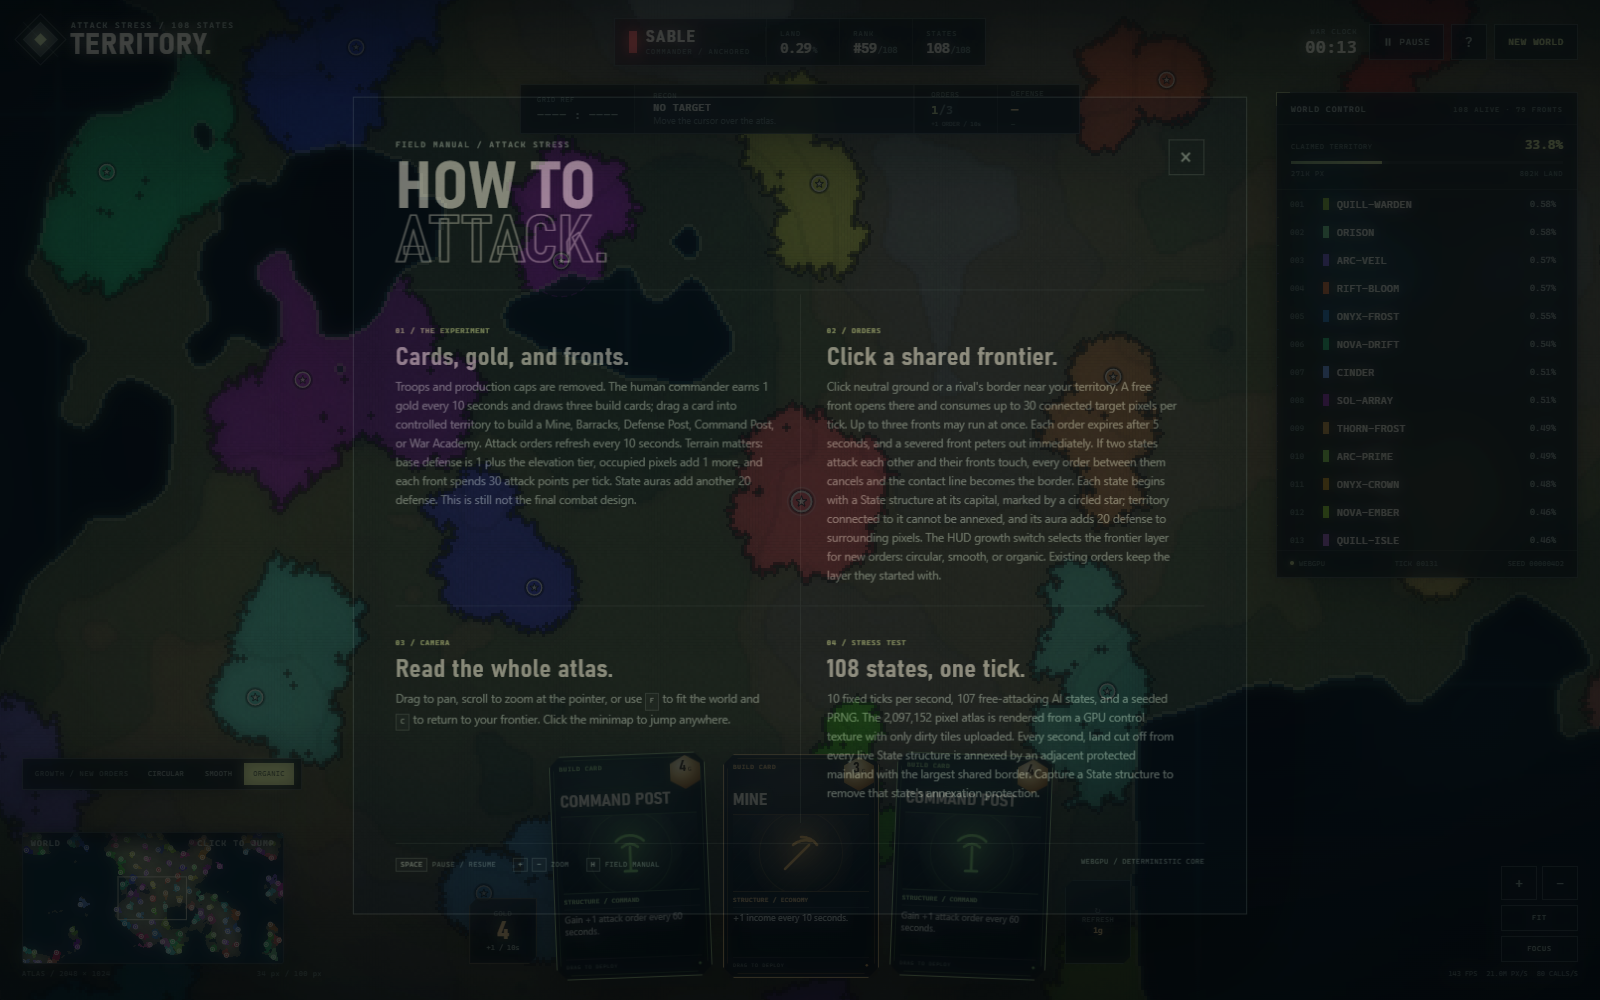
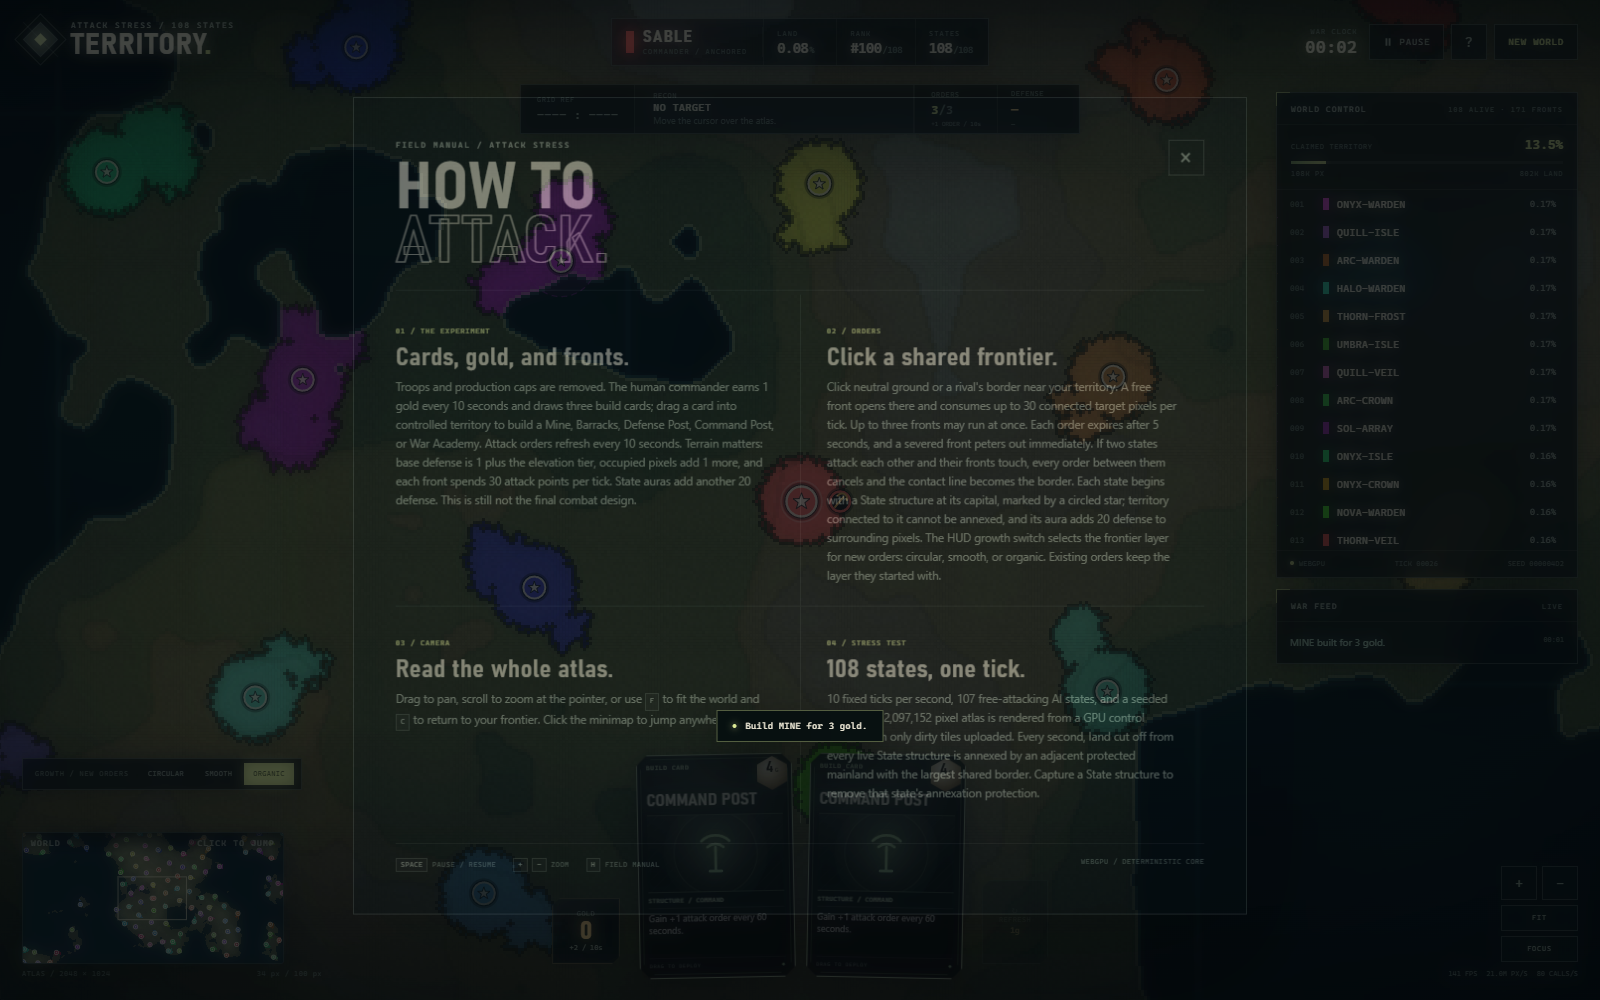
Added minimum build radius

diff --git a/src/lib/components/GameCanvas.svelte b/src/lib/components/GameCanvas.svelte
@@ -6,6 +6,12 @@
 	import { GameCameraBridge } from '#lib/game/render/camera-bridge';
 	import { TerritoryRenderer, type RendererFrameStats } from '#lib/game/render/territory-renderer';
 
+	// Marker radii are screen pixels, deliberately independent of camera scale:
+	// structures stay the same size on screen as the player zooms.
+	const STATE_HUMAN_MARKER_RADIUS = 15;
+	const STATE_BOT_MARKER_RADIUS = 11;
+	const BUILDABLE_MARKER_RADIUS = 10;
+
 	interface HoverInfo {
 		x: number;
 		y: number;
@@ -230,7 +236,11 @@
 
 				const human = structure.ownerId === HUMAN_PLAYER_ID;
 				const isState = structure.type === 'state';
-				const radius = isState ? (human ? 10 : 7.5) : 7.2;
+				const radius = isState
+					? human
+						? STATE_HUMAN_MARKER_RADIUS
+						: STATE_BOT_MARKER_RADIUS
+					: BUILDABLE_MARKER_RADIUS;
 				const ownerColor = colorForPlayer(structure.ownerId);
 				const accent = STRUCTURE_ACCENTS[structure.type];
 				const x = point.x;
@@ -240,11 +250,11 @@
 				// and territory colors. State keeps the owner-colored disc; buildables
 				// use a dark badge with an owner ring so their type icon stays legible.
 				context.beginPath();
-				context.arc(x, y, radius + (isState ? 2.8 : 2.4), 0, Math.PI * 2);
+				context.arc(x, y, radius + 4, 0, Math.PI * 2);
 				context.fillStyle = 'rgba(2, 8, 12, 0.42)';
 				context.fill();
 				context.beginPath();
-				context.arc(x, y, radius + (isState ? 1.3 : 1.2), 0, Math.PI * 2);
+				context.arc(x, y, radius + 2, 0, Math.PI * 2);
 				context.fillStyle = 'rgba(4, 12, 16, 0.92)';
 				context.fill();
 
@@ -252,20 +262,20 @@
 				context.arc(x, y, radius, 0, Math.PI * 2);
 				context.fillStyle = isState ? ownerColor.hex : 'rgba(5, 15, 20, 0.96)';
 				context.fill();
-				context.lineWidth = isState ? (human ? 2 : 1.5) : 2.2;
+				context.lineWidth = isState ? (human ? 2.4 : 2) : 2.6;
 				context.strokeStyle = isState ? 'rgba(252, 246, 225, 0.96)' : ownerColor.hex;
 				context.stroke();
 
 				if (human && isState) {
 					context.beginPath();
-					context.arc(x, y, radius + 4, 0, Math.PI * 2);
-					context.lineWidth = 1.2;
+					context.arc(x, y, radius + 5.5, 0, Math.PI * 2);
+					context.lineWidth = 1.4;
 					context.strokeStyle = 'rgba(252, 246, 225, 0.34)';
 					context.stroke();
 				}
 
 				context.strokeStyle = isState ? 'rgba(255, 248, 225, 0.98)' : accent;
-				context.lineWidth = isState ? 1.4 : 1.7;
+				context.lineWidth = isState ? 1.8 : 2.1;
 				context.lineCap = 'round';
 				context.lineJoin = 'round';
 				if (structure.type === 'state') {

diff --git a/src/lib/game/economy.test.ts b/src/lib/game/economy.test.ts
@@ -4,14 +4,18 @@ import {
 	HUMAN_PLAYER_ID,
 	INCOME_INTERVAL_TICKS,
 	REFRESH_COST,
-	STARTING_GOLD
+	STARTING_GOLD,
+	STRUCTURE_MIN_SPACING
 } from './constants';
 import { TerritorySimulation } from './simulation';
 import { BUILDABLE_STRUCTURE_TYPES, type BuildableStructureType } from './Structures';
 
 function findBuildCell(sim: TerritorySimulation): number {
 	for (let i = 0; i < sim.owners.length; i++) {
-		if (sim.owners[i] === HUMAN_PLAYER_ID && sim.terrain[i] && !sim.structures.at(i)) return i;
+		if (sim.owners[i] !== HUMAN_PLAYER_ID || !sim.terrain[i] || sim.structures.at(i)) continue;
+		const x = i % sim.width;
+		const y = (i - x) / sim.width;
+		if (!sim.structures.hasWithinRadius(x, y, STRUCTURE_MIN_SPACING)) return i;
 	}
 	return -1;
 }
@@ -85,6 +89,31 @@ describe('player economy and cards', () => {
 		sim.step();
 		expect(sim.structures.at(index)?.type).toBe('defense-post');
 		expect(sim.getAuraDefense(x, y)).toBe(before + 1);
+	});
+
+	it('rejects structures inside the minimum spacing radius', () => {
+		const sim = new TerritorySimulation({ seed: 424242 });
+		const start = sim.map.starts[HUMAN_PLAYER_ID - 1];
+		let blocked: { x: number; y: number } | null = null;
+		for (let dy = -7; dy <= 7 && !blocked; dy++) {
+			for (let dx = -7; dx <= 7; dx++) {
+				const x = start.x + dx;
+				const y = start.y + dy;
+				const index = y * sim.width + x;
+				if (sim.owners[index] !== HUMAN_PLAYER_ID) continue;
+				if (sim.structures.at(index)) continue;
+				if (dx * dx + dy * dy >= STRUCTURE_MIN_SPACING * STRUCTURE_MIN_SPACING) continue;
+				blocked = { x, y };
+				break;
+			}
+		}
+		expect(blocked).not.toBeNull();
+		if (!blocked) return;
+		sim.hand = [{ id: 7001, type: 'defense-post' }];
+		sim.gold = 2;
+		const result = sim.playCard(HUMAN_PLAYER_ID, 7001, blocked.x, blocked.y);
+		expect(result.ok).toBe(false);
+		expect(result.reason).toBe('too-close');
 	});
 
 	it('razes a captured Mine and drops its income', () => {

diff --git a/src/lib/game/simulation.test.ts b/src/lib/game/simulation.test.ts
@@ -367,24 +367,24 @@ describe('attack stress mode', () => {
 
 	it('applies growth-layer switches only to new orders', () => {
 		const sim = new TerritorySimulation({ seed: 112233 });
-		expect(sim.getSnapshot().growthMode).toBe('circular');
+		expect(sim.getSnapshot().growthMode).toBe('organic');
 
 		const target = findAttackablePixel(sim, 1);
 		expect(target).not.toBeNull();
 		if (!target) return;
 		sim.enqueueAttack(1, target.x, target.y);
 		sim.step();
-		const circularAttacks = sim.getSnapshot().attacks.filter((attack) => attack.attackerId === 1);
-		expect(circularAttacks.length).toBeGreaterThan(0);
-		expect(circularAttacks.every((attack) => attack.growthMode === 'circular')).toBe(true);
+		const initialAttacks = sim.getSnapshot().attacks.filter((attack) => attack.attackerId === 1);
+		expect(initialAttacks.length).toBeGreaterThan(0);
+		expect(initialAttacks.every((attack) => attack.growthMode === 'organic')).toBe(true);
 
 		sim.setGrowthMode('smooth');
-		expect(sim.getSnapshot().growthMode).toBe('circular');
+		expect(sim.getSnapshot().growthMode).toBe('organic');
 		sim.step();
 		expect(sim.getSnapshot().growthMode).toBe('smooth');
 
 		const retained = sim.getSnapshot().attacks.filter((attack) => attack.attackerId === 1);
-		expect(retained.every((attack) => attack.growthMode === 'circular')).toBe(true);
+		expect(retained.every((attack) => attack.growthMode === 'organic')).toBe(true);
 
 		const nextTarget = findAttackablePixel(sim, 1);
 		expect(nextTarget).not.toBeNull();

diff --git a/src/lib/game/Structures/registry.ts b/src/lib/game/Structures/registry.ts
@@ -34,6 +34,17 @@ export class StructureRegistry {
 		return this.byIndex.get(index);
 	}
 
+	/** True when a structure centre lies inside the forbidden build radius. */
+	hasWithinRadius(x: number, y: number, radius: number): boolean {
+		const radiusSq = radius * radius;
+		for (const structure of this.items) {
+			const dx = structure.x - x;
+			const dy = structure.y - y;
+			if (dx * dx + dy * dy < radiusSq) return true;
+		}
+		return false;
+	}
+
 	forOwner(ownerId: number): readonly Structure[] {
 		return this.byOwner.get(ownerId) ?? [];
 	}

diff --git a/src/lib/game/simulation.ts b/src/lib/game/simulation.ts
@@ -154,7 +154,15 @@ export interface RefreshCommand {
 export type GameCommand = AttackCommand | BuildCommand | RefreshCommand;
 
 export type BuildFailure =
-	'ended' | 'eliminated' | 'no-card' | 'no-gold' | 'ocean' | 'not-owned' | 'occupied' | 'invalid';
+	| 'ended'
+	| 'eliminated'
+	| 'no-card'
+	| 'no-gold'
+	| 'ocean'
+	| 'not-owned'
+	| 'occupied'
+	| 'too-close'
+	| 'invalid';
 
 export interface BuildOrderResult {
 	ok: boolean;

diff --git a/src/lib/game/net/protocol.ts b/src/lib/game/net/protocol.ts
@@ -10,7 +10,7 @@ import type { GrowthMode } from '../growth';
 import type { AttackFailure, PublicAttack, PublicPlayer, SimEventKind } from '../simulation';
 import type { PublicCard, PublicStructure } from '../Structures';
 
-export const NET_PROTOCOL_VERSION = 14;
+export const NET_PROTOCOL_VERSION = 15;
 
 export type MatchId = string;
 export type PlayerId = number;

diff --git a/src/lib/game/constants.ts b/src/lib/game/constants.ts
@@ -84,7 +84,7 @@ export const ATTACK_SEARCH_RADIUS = 34;
 export const BOT_DECISION_INTERVAL = TICK_RATE;
 export const BOT_SEARCH_TRIES = 8;
 
-export const PROTOCOL_VERSION = 14;
+export const PROTOCOL_VERSION = 15;
 
 const CORE_PLAYER_NAMES = [
 	'SABLE',

diff --git a/src/routes/+page.svelte b/src/routes/+page.svelte
@@ -968,7 +968,7 @@
 			</div>
 
 			<div class="intro-footbar">
-				<span>BUILD 0.9.2 / PROTOCOL 14</span>
+				<span>BUILD 0.9.3 / PROTOCOL 15</span>
 				<span>WEBGPU RENDERER REQUIRED</span>
 				<span>DRAG TO PAN · SCROLL TO ZOOM</span>
 			</div>

diff --git a/AGENTS.md b/AGENTS.md
@@ -53,7 +53,7 @@ If `pnpm`/`node` is not on PATH in this environment, use the runtime paths provi
 16. **Defense is derived and integer.** `1 + elevation + occupied + aura`; do not add a mutable defense array or float modifier. Attacks spend 30 points/tick; requeue an unaffordable candidate rather than losing it.
 17. **Elevation is versioned map data.** Changing tier thresholds, level count, or defense meaning requires `MAP_VERSION`/protocol review and updated tests.
 18. **Structure effects are defined by type and derived into overlays.** State auras stamp +20 within 12 px with max-overlap semantics; Defense Posts add. Rebuild derived auras when a structure is destroyed; include effect descriptors in public structure payloads. Do not serialize a mutable per-cell aura array.
-19. **Card economy is command-driven.** Build/refresh must queue and apply inside `step()`, validate gold/card/owned land/empty structure slot, and use the dedicated card RNG. Cards draw independently from the five-type buildable pool with replacement. Captured structures are razed.
+19. **Card economy is command-driven.** Build/refresh must queue and apply inside `step()`, validate gold/card/owned land/empty structure slot/**8 px structure spacing**, and use the dedicated card RNG. Cards draw independently from the five-type buildable pool with replacement. Captured structures are razed.
 20. **Attack orders are per-player integer charges.** A launch spends exactly one order. Every 100 ticks each living player gains 1 order, clamped to the cap—not a full refill. Base caps are 3 human / 2 bots; War Academy cap effects are derived from live structures and destroy-clamping applies. Include orders and both timers in checksums.
 21. **Do not reintroduce per-attack Sets without measurements.** Prefer flat structures; the current layers use a number-array heap, radial-band arrays, or an array + RNG.
 
@@ -102,15 +102,16 @@ WebGPU is not available in jsdom. Verify visually and interactively:
 9. Confirm State structure capital-star circles are drawn at capitals, their aura fields appear at tactical zoom, minimap ringed dots track them, and the commander readout says ANCHORED.
 10. Hover an aura pixel and confirm the defense readout includes `AURA +20` and the total is raised accordingly.
 11. Deploy, confirm the CCG hand is free-floating at bottom center, has no empty placeholders, and leaves the bottom rail clear; hover and drag cards to see lift/tilt animations.
-12. Drag a card into controlled territory, confirm the card leaves with an animation, gold is spent, and the structure appears; try an invalid drop and confirm no cost.
-13. Click Refresh and confirm 1 gold is spent, old cards animate out, and three fresh cards animate in.
-14. Confirm the ORDERS readout drops per launch, accepts up to 3 immediate human attacks, rejects a fourth, and gains only +1 (not a full refill) after 10 seconds.
-15. Build a Command Post and observe an extra order on the next 60-second pulse; build a War Academy and confirm the order cap rises.
-16. Capture a structure (or fabricate a capture in a test) and confirm it disappears with its effects, the owner shows NO ANCHOR, and a war-feed event appears.
-17. Run ORGANIC for several seconds; confirm mutual fronts disappear instead of interpenetrating and no isolated owner specks remain after a cleanup pass.
-18. Check the HUD perf readout: calls/s should be modest; heavy full-resync chunks are expected under saturation.
-19. Drag-pan for several seconds with ~100 fronts and confirm no periodic 10 Hz hitch.
-20. Test a narrow viewport and scroll the 108-state leaderboard to the bottom.
+12. Drag a card into controlled territory, confirm the card leaves with an animation, gold is spent, and the structure appears; try a drop within 8 px of an existing structure and confirm it is rejected at no cost.
+13. Zoom in and out and confirm structure icons keep the same screen size (15/11 px State, 10 px buildable) rather than growing with zoom.
+14. Click Refresh and confirm 1 gold is spent, old cards animate out, and three fresh cards animate in.
+15. Confirm the ORDERS readout drops per launch, accepts up to 3 immediate human attacks, rejects a fourth, and gains only +1 (not a full refill) after 10 seconds.
+16. Build a Command Post and observe an extra order on the next 60-second pulse; build a War Academy and confirm the order cap rises.
+17. Capture a structure (or fabricate a capture in a test) and confirm it disappears with its effects, the owner shows NO ANCHOR, and a war-feed event appears.
+18. Run ORGANIC for several seconds; confirm mutual fronts disappear instead of interpenetrating and no isolated owner specks remain after a cleanup pass.
+19. Check the HUD perf readout: calls/s should be modest; heavy full-resync chunks are expected under saturation.
+20. Drag-pan for several seconds with ~100 fronts and confirm no periodic 10 Hz hitch.
+21. Test a narrow viewport and scroll the 108-state leaderboard to the bottom.
 
 ## Style
 

diff --git a/docs/SPEC.md b/docs/SPEC.md
@@ -1,8 +1,8 @@
 # TERRITORY — Specification
 
-**Version:** 0.9.2 (attack stress experiment)  
+**Version:** 0.9.3 (attack stress experiment)  
 **Status:** Local attack-focused stress build; online design target  
-**Last synchronized with:** application 0.9.2, map version 3, protocol draft 14
+**Last synchronized with:** application 0.9.3, map version 3, protocol draft 15
 
 This is the canonical description of what Territory is, what the current build does, and which technical contracts must hold. [ARCHITECTURE.md](ARCHITECTURE.md) explains the code; this document explains the intent and current rules. Temporary deviations are tracked in [EXPERIMENTS.md](EXPERIMENTS.md).
 
@@ -121,7 +121,7 @@ All numeric values come from `src/lib/game/constants.ts`. Outcome-affecting chan
 - Elevation is derived from land-height quantiles, colored from lowland through peaks, and drives base defense.
 - Ocean cannot be owned.
 - Map and starts are deterministic from the seed and versioned by `MAP_VERSION`.
-- `MAP_VERSION = 3`; `PROTOCOL_VERSION = 14`.
+- `MAP_VERSION = 3`; `PROTOCOL_VERSION = 15`.
 
 ### 4.2 Starting positions
 
@@ -278,7 +278,7 @@ This restores dead pixels and severed pockets to the surrounding claim while gua
 - A live State structure projects a **12 px defense aura** adding **+20 defense** to every land pixel in range. The structure cell itself is inside the aura. Overlapping auras do not stack; the strongest applies.
 - Capturing the structure destroys it immediately and removes its aura. The owner keeps any remaining territory, but none of it is annexation-protected until another structure anchors it.
 - Only State structures anchor protection. Mines, Barracks, Defense Posts, Command Posts, and War Academies do not prevent annexation.
-- State structures are large owner-colored circles with a cream capital star. Buildables are dark badges with an owner-colored ring and a type-accent icon (amber pickaxe, red swords, cyan shield, green command mast, violet academy chevrons). The HUD shows the human state's `ANCHORED`/`NO ANCHOR` status and a war-feed event when a structure is destroyed.
+- State structures are large owner-colored circles with a cream capital star (15 px human / 11 px AI radius). Buildables are 10 px dark badges with an owner-colored ring and a type-accent icon (amber pickaxe, red swords, cyan shield, green command mast, violet academy chevrons). Marker sizes are fixed in screen pixels and do not grow with camera zoom. The HUD shows the human state's `ANCHORED`/`NO ANCHOR` status and a war-feed event when a structure is destroyed.
 - Structure placement, capture, and protection are deterministic and included in checksums.
 
 State is the permanent anchor structure. Mines, Barracks, Defense Posts, Command Posts, and War Academies are the player-built structures; construction beyond cards, more types, and ownership transfer are future work.
@@ -309,7 +309,7 @@ The human commander has a small card economy; bots do not build cards yet.
 - Start with **3 gold** and **3 random cards**, drawn independently from the buildable pool with replacement.
 - Earn **1 gold every 10 seconds** (`INCOME_INTERVAL_TICKS = 100`), plus **1 per live Mine**.
 - Income is paid at the start of the tick. A Mine built before the payment adds to that payment.
-- Playing a card requires dragging it onto **controlled land** with no existing structure.
+- Playing a card requires dragging it onto **controlled land** with no existing structure and at least **8 px from every other structure**.
 - The build command is queued, applied at the next tick, deducts its cost, removes the card, and creates the structure.
 - **Refresh** costs 1 gold, discards the current hand, and draws three new cards from the pool. It is queued like a build.
 - Costs: Mine **3**, Barracks **2**, Defense Post **1**, Command Post **4**, War Academy **6**.
@@ -317,6 +317,7 @@ The human commander has a small card economy; bots do not build cards yet.
 - Command Posts pulse **+1 attack order every 60 seconds** at a global 60-second boundary. The grant is clamped to the cap.
 - War Academies add **+1 to the attack-order cap** while alive. Multiple academies stack.
 - Captured buildable structures are razed and their effects disappear.
+- Structure placement has an **8 px centre-to-centre exclusion radius**. The existing cell and every other structure block a drop inside that radius.
 
 | Card         | Cost | Effect                                                               |
 | ------------ | ---- | -------------------------------------------------------------------- |

diff --git a/docs/ARCHITECTURE.md b/docs/ARCHITECTURE.md
@@ -1,12 +1,12 @@
 # Architecture
 
-This document describes the code as it exists in v0.9.2. For current rules, the attack experiment, and future online design, read [SPEC.md](SPEC.md), [EXPERIMENTS.md](EXPERIMENTS.md), and [NETWORKING.md](NETWORKING.md).
+This document describes the code as it exists in v0.9.3. For current rules, the attack experiment, and future online design, read [SPEC.md](SPEC.md), [EXPERIMENTS.md](EXPERIMENTS.md), and [NETWORKING.md](NETWORKING.md).
 
 ---
 
 ## 1. High-level shape
 
-Territory is a client-rendered SvelteKit application with a pure TypeScript simulation core. There is no backend in v0.9.2. The simulation and renderer are deliberately hard to couple: they exchange a packed change batch after each tick and share immutable map arrays.
+Territory is a client-rendered SvelteKit application with a pure TypeScript simulation core. There is no backend in v0.9.3. The simulation and renderer are deliberately hard to couple: they exchange a packed change batch after each tick and share immutable map arrays.
 
 ```text
 ┌──────────────────────────────────────────────────────────────────────┐
@@ -114,7 +114,7 @@ const index = packed & 0x1f_ffff;
 - The driver calls `renderer.applyChanges(result.changes, result.changeCount, result.changesOverflow)` before the next tick.
 - If the buffer overflows, the renderer does a full control-texture rebuild. Game state is unaffected.
 
-In the 108-state stress build, the technical caps allow roughly 219 active fronts (107 bots × 2 + 3 human) × at most 30 captures ≈ 6,570 changes per tick. That still fits comfortably in the 16,384-word buffer. Defense spending reduces the actual capture count. Stress tests assert no overflow during sustained runs.
+Attack-order supply (3 human / 2 bots, plus Command Post grants) bounds active fronts. The 16,384-word change buffer remains comfortably above observed capture batches; defense spending reduces the actual capture count. Stress tests assert no overflow during sustained runs.
 
 ### 3.4 Derived frontier sets
 
@@ -222,7 +222,7 @@ type GameCommand =
 	| { type: 'refresh'; playerId; sequence };
 ```
 
-`enqueueAttack`, `playCard`, and `refreshCards` validate immediately and queue. Authoritative creation/spending/drawing still happens inside the next `step()`, where state may have changed. Attack validation subtracts already-queued attack commands so the player cannot overcommit orders. Applying an attack spends one order; build/refresh validate gold and cards again. This separation is the model for future network intents. Order grants, Command Post pulses, and income are paid at tick boundaries before the command queue.
+`enqueueAttack`, `playCard`, and `refreshCards` validate immediately and queue. Authoritative creation/spending/drawing still happens inside the next `step()`, where state may have changed. Attack validation subtracts already-queued attack commands so the player cannot overcommit orders. Applying an attack spends one order; build/refresh validate gold, cards, the destination cell, and the 8 px structure exclusion radius again. This separation is the model for future network intents. Order grants, Command Post pulses, and income are paid at tick boundaries before the command queue.
 
 ### 3.7 Snapshots
 

diff --git a/README.md b/README.md
@@ -13,7 +13,7 @@
 
 </details>
 
-> **Status: attack stress experiment (v0.9.2).** Troops, production caps, and launch costs remain removed, but attack orders now refresh on a timer and a light human gold/card economy drives buildable structures and terrain defense. **This is not the intended final combat model.** See [docs/EXPERIMENTS.md](docs/EXPERIMENTS.md).
+> **Status: attack stress experiment (v0.9.3).** Troops, production caps, and launch costs remain removed, but attack orders now refresh on a timer and a light human gold/card economy drives buildable structures and terrain defense. **This is not the intended final combat model.** See [docs/EXPERIMENTS.md](docs/EXPERIMENTS.md).
 >
 > The current build runs **108 states** (1 human + 107 AI) to stress-test free attacks, territory flood fill, frontier bookkeeping, dirty-tile rendering, and the HUD. It includes three switchable growth layers: **circular**, **smooth**, and **organic**. Online multiplayer remains specified but **not wired up**.
 
@@ -144,6 +144,8 @@ The human commander starts with **3 gold** and three random cards. Income is **1
 | War Academy  | 6    | +1 attack-order cap                                 |
 
 The hand is filled by independent random draws from the five-card pool, so duplicates are possible. **Refresh** costs 1 gold and replaces the hand with three new cards. Built structures are razed when captured.
+
+Structures must be at least **8 px apart** (centre to centre); dropping a card too close to any existing structure is rejected. Structure icons are larger now: 15 px radius for the human State, 11 px for AI States, and 10 px for buildables. These are screen-space sizes, so icons do **not** grow as you zoom in.
 
 The hand is presented as free-floating CCG-style cards at the bottom center, with no enclosing tray and no empty placeholders: cards enter from below, leave when played or refreshed, flip into new positions, lift on hover, and tilt while dragged. The bottom center is kept clear for the hand; recon and growth controls live above it.
 
